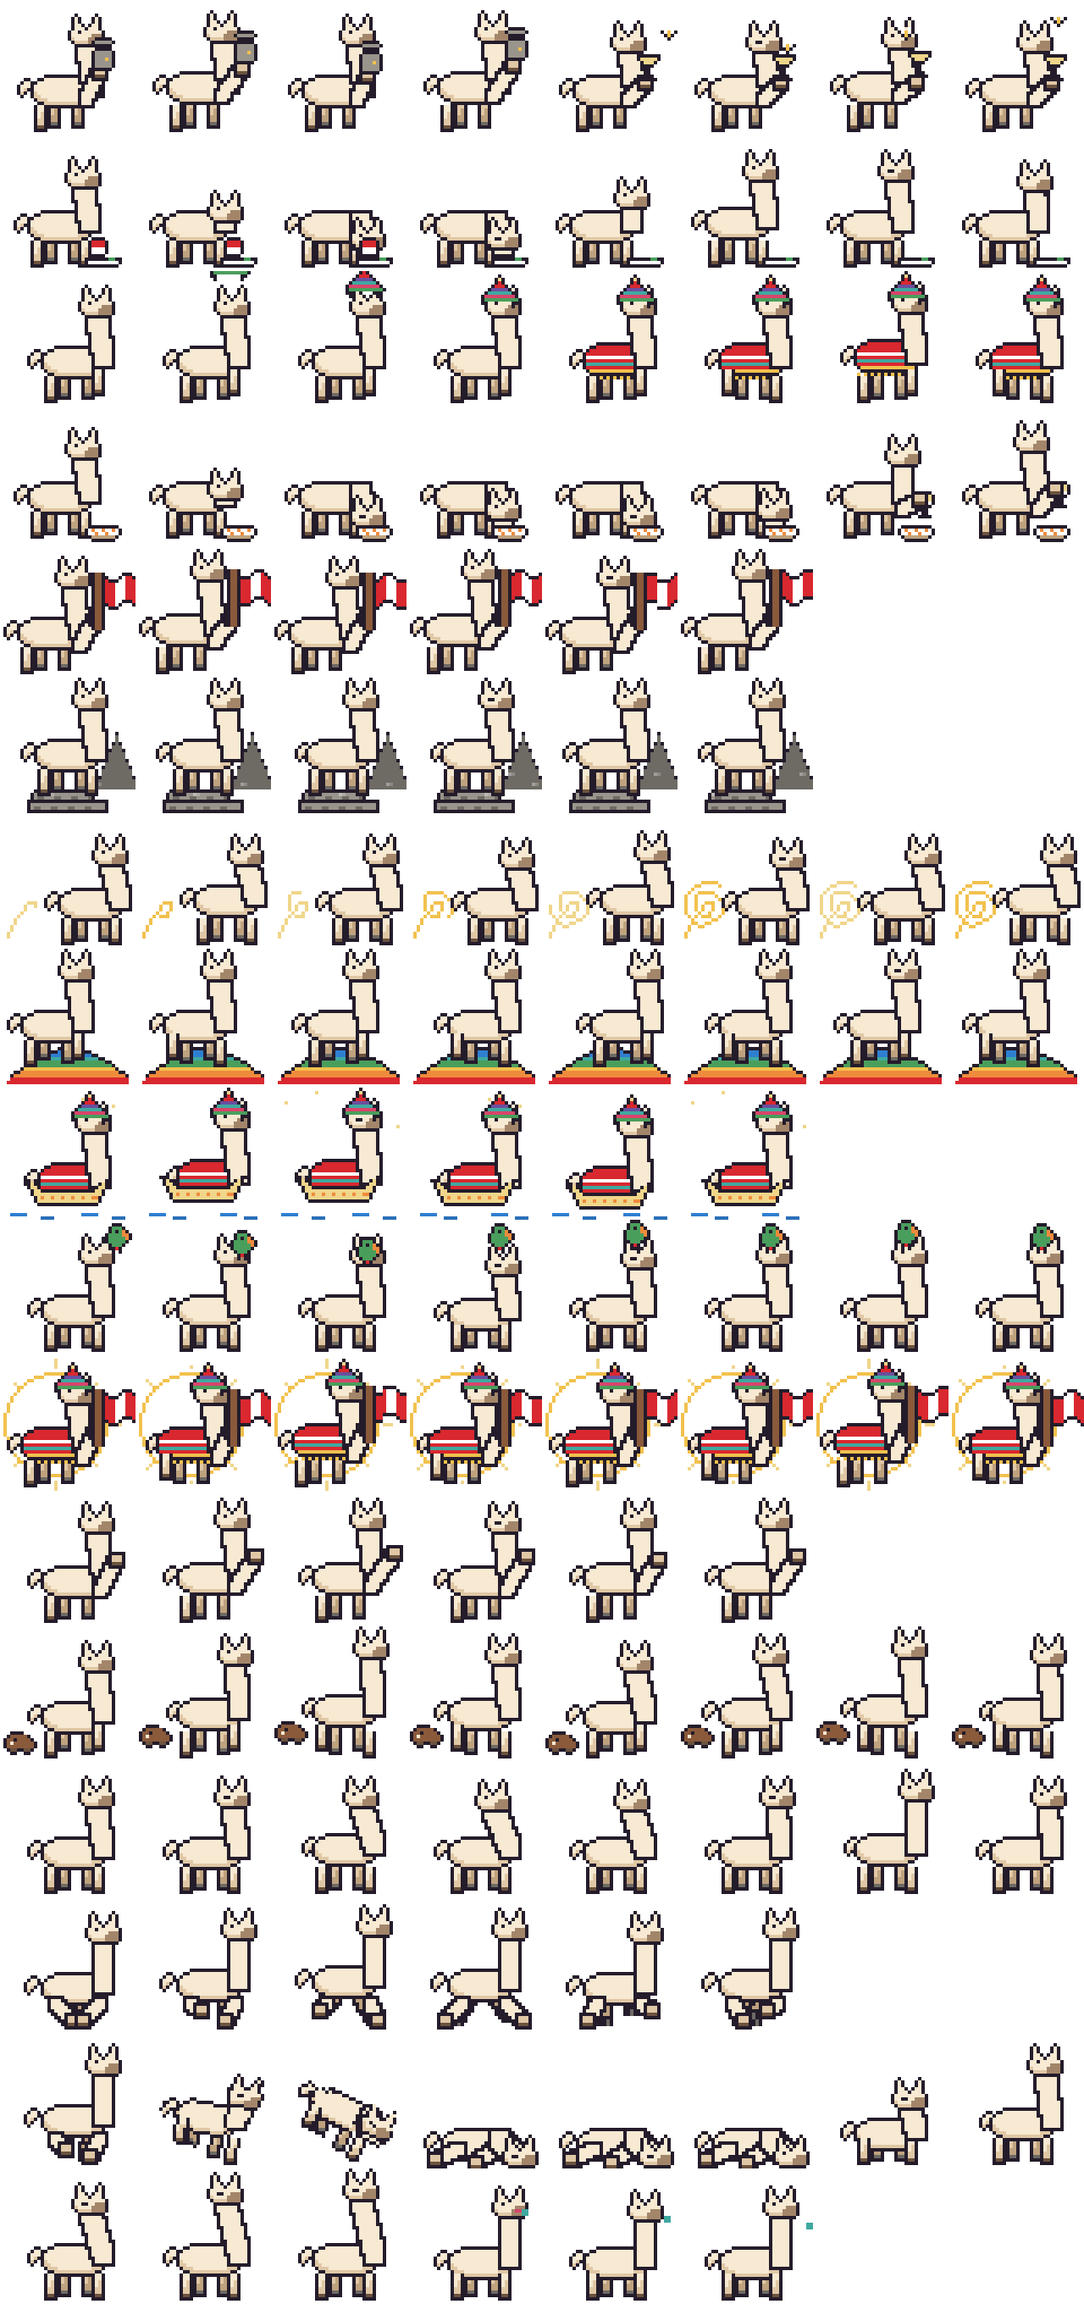
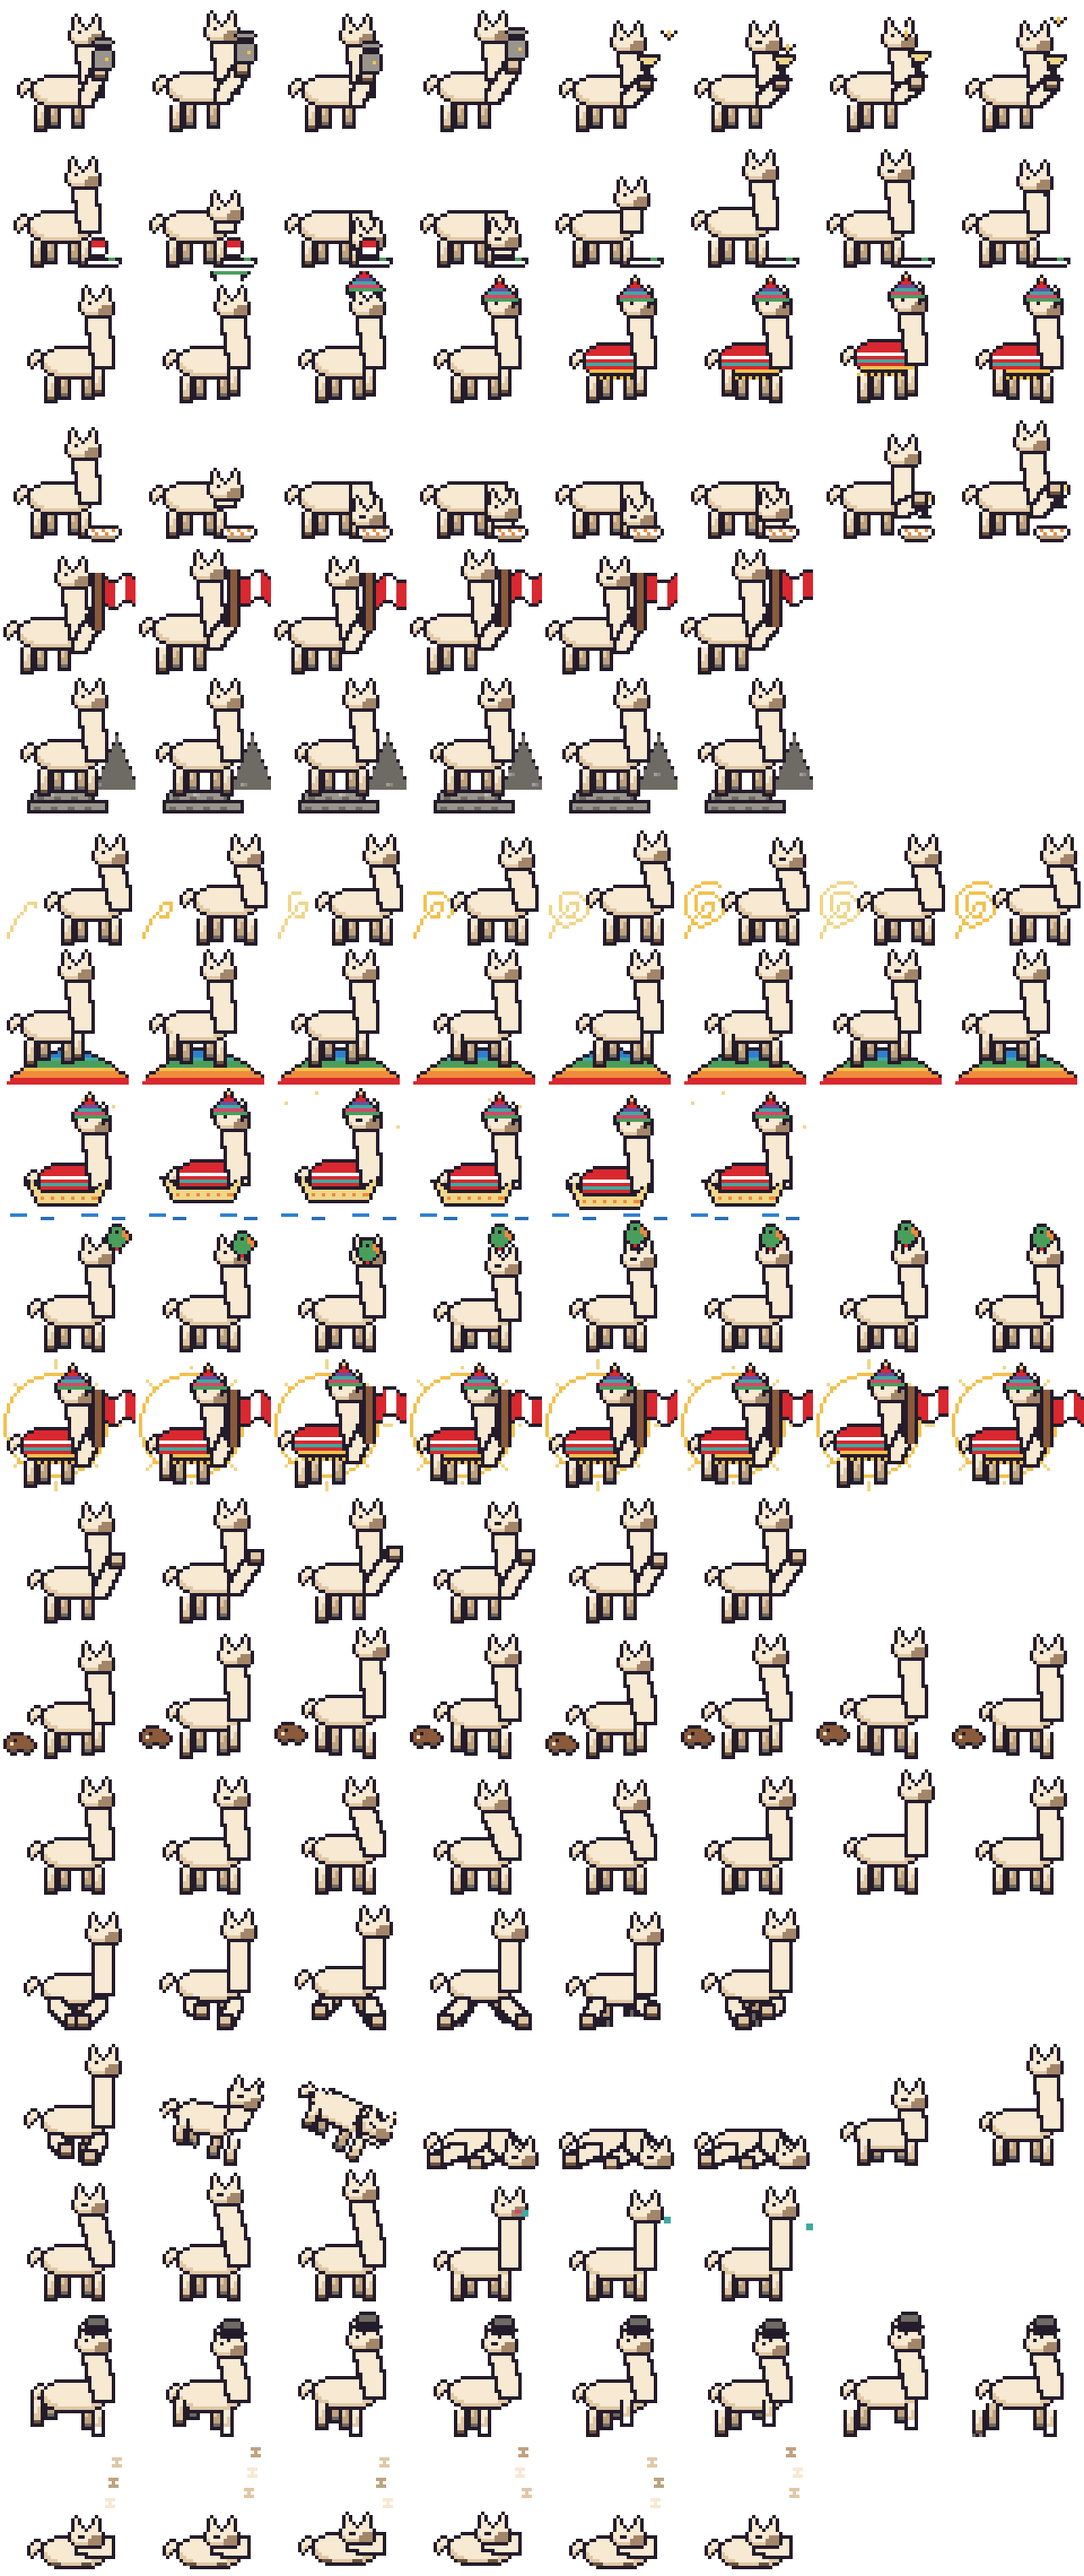
The llama moonwalks once in a blue moon, and sleeps when she's off
Two new strips. pack-llama.mjs now stacks the handoff's seventeen-row master
and the two loose strips into one nineteen-row sheet — still lossless WebP,
still 14 KB, and it decodes every row back out of the packed sheet and
compares it against its source before it will write anything.

The moonwalk is 6% of her decisions, roughly every seven minutes the page is
open, and it's the first branch in act() so the days she has a turn of her
own can't squeeze it out. It also inverts the facing rule: she's drawn facing
right with the dust trailing off to her left, so on that row alone the mirror
runs against the direction of travel. That's a `backwards` flag on the
animation, and llama.mjs asserts it in reverse of the gallop test.

Off no longer deletes her — she curls up in the left corner and sleeps. She
stops wandering, stops talking, and stops being a button, so she can't take a
tap meant for the guide. Under prefers-reduced-motion she's a single still
frame rather than slow-breathing.

Two things that fell out of it: every pending piece of behaviour now goes in
one Set so a state change cancels all of it — a stray stand() landing after
she'd gone to sleep would have stood her up asleep — and the animation loop
stops while the tab is hidden, since this page gets left open.

diff --git a/src/lib/llama.ts b/src/lib/llama.ts
@@ -8,12 +8,18 @@
  * chosen for the best fit, and the leftovers go where they jar least.
  */
 
-/** One row of the master sheet. Row order is the manifest's, not the day's. */
+/** One row of the packed sheet. Row order is the manifest's, not the day's. */
 export interface LlamaAnimation {
   id: string;
   row: number;
   frames: number;
   fps: number;
+  /**
+   * Drawn facing the opposite way to travel. Only the moonwalk: she faces
+   * right with the dust trailing off to her left, so she has to be mirrored
+   * against her direction rather than with it. That inversion is the joke.
+   */
+  backwards?: boolean;
 }
 
 export const LLAMA_SHEET = '/llama/chaska-4x.webp';
@@ -21,7 +27,7 @@ export const LLAMA_SHEET = '/llama/chaska-4x.webp';
 /** Logical frame is 40×40 exported at 4×; we draw at 2×, so an 80px cell. */
 export const LLAMA_CELL = 80;
 export const LLAMA_SHEET_COLUMNS = 8;
-export const LLAMA_SHEET_ROWS = 17;
+export const LLAMA_SHEET_ROWS = 19;
 
 export const LLAMA_ANIMATIONS: Record<string, LlamaAnimation> = {
   ladybee: { id: 'ladybee', row: 0, frames: 8, fps: 8 },
@@ -41,6 +47,9 @@ export const LLAMA_ANIMATIONS: Record<string, LlamaAnimation> = {
   run: { id: 'run', row: 14, frames: 6, fps: 12 },
   trip: { id: 'trip', row: 15, frames: 8, fps: 10 },
   tap: { id: 'tap', row: 16, frames: 6, fps: 10 },
+  // Appended to the sheet after the handoff, by scripts/pack-llama.mjs.
+  moonwalk: { id: 'moonwalk', row: 17, frames: 8, fps: 10, backwards: true },
+  sleep: { id: 'sleep', row: 18, frames: 6, fps: 3 },
 };
 
 /**

diff --git a/public/sw.js b/public/sw.js
@@ -11,7 +11,7 @@
  * Bump CACHE when the content changes — old caches are dropped on activate.
  */
 
-const CACHE = 'peru-guide-v15';
+const CACHE = 'peru-guide-v16';
 
 /**
  * Map tiles live in their own capped cache: they're third-party, there can be

diff --git a/README.md b/README.md
@@ -98,16 +98,23 @@ There is a llama at the bottom of the page. She has no job.
 
 She stands in the corner, and every fourteen-to-thirty-eight seconds does something: paces along the floor and turns at the edges, waves, catches a hoof and goes over, or dances. Poke her and she spits — an interrupt that plays over whatever she was doing and hands control back, so a second poke restarts it rather than queueing. On each of the eleven days of the trip she has a turn of her own and says so.
 
-The art is a handoff in `src/silly_virtual_llama/` — seventeen animations, 40 × 40 logical pixels each, exported at 4×. `src/lib/llama.ts` carries the sheet geometry and the day mapping; `Llama.astro` is the whole implementation.
+**Once in a blue moon she moonwalks.** 6% of her decisions, so roughly every seven minutes you have the page open. It's the first branch in `act()` so the days she has a turn of her own can't squeeze it out; the number is one line if it wants tuning.
+
+**Turning her off doesn't delete her — she curls up in the left corner and sleeps.** Zs and all. She stops wandering, stops talking, and stops being a button (`pointer-events: none`, and the label says she's asleep), so she can't take a tap meant for the guide. The handoff warns that a mascot frozen mid-stride reads as a bug; asleep reads as asleep.
+
+The art is a handoff in `src/silly_virtual_llama/` — seventeen animations at 40 × 40 logical pixels, exported at 4×, plus a moonwalk and a sleep that arrived afterwards as loose strips. `scripts/pack-llama.mjs` stacks the three sources into one nineteen-row sheet; `src/lib/llama.ts` carries the geometry and the day mapping; `Llama.astro` is the whole implementation.
 
 **The day mapping isn't the sheet's.** The sheet numbers its day animations 1–11, and taking them in order would put the Nazca lines on a Cusco rest day and a parrot on the flight home. Four land exactly — Lady Bee on the 16th, Maido on the 17th, the terraces on the 21st, the reed boat on the 24th — and the rest are matched to what we're actually doing, with reasons in the file.
 
-**What she costs:** 13 KB, once. The handoff's 174 KB PNG master re-encodes to lossless WebP at 13 KB with byte-identical pixels — `scripts/pack-llama.mjs` decodes both and compares the raw buffers before it will write. Nothing is resampled, recut or recoloured. The sheet is fetched on idle after `load`, so she never competes with the guide arriving, and she's precached for offline.
+**What she costs:** 14 KB, once. The handoff's 174 KB PNG master, plus the two later strips, re-encode to a single lossless WebP at 14 KB with byte-identical pixels — the pack script decodes every row back out of the packed sheet and compares it against its source before it will write anything. Nothing is resampled, recut or recoloured. The sheet is fetched on idle after `load`, so she never competes with the guide arriving, and she's precached for offline.
 
 **Behaviour worth knowing:**
 
 - Frames advance on accumulated milliseconds, not ticks, so she moves at the same speed on a 60 Hz laptop and a 120 Hz phone.
 - **The art faces right.** Head, muzzle and the spit all leave to the right, so it's walking *left* that takes the `scaleX(-1)` mirror. Shipping that backwards makes her moonwalk, which is exactly what happened the first time; `llama.mjs` now paces her with `Math.random` stubbed and fails if any step travels against her facing.
+- **The moonwalk inverts that**, and only the moonwalk: she's drawn facing right with the dust trailing off to her left, so on that row the mirror runs *against* the direction of travel. It's the `backwards` flag in `llama.ts`, and it has the same test in reverse.
+- Every pending piece of behaviour goes in one `Set` so a state change cancels all of it. A stray `stand()` landing after she's gone to sleep would stand her up asleep — the sort of thing a mascot gets away with for months.
+- The loop stops while the tab is hidden. This page gets left open.
 - Her floor is the `.shell` card, not the whole monitor. On a wide screen the card is centred with the ink field either side, and a llama straddling that edge reads as a mistake rather than a joke.
 - `pointer-events: none` on the container, `auto` on her 80 px hit box, `z-index: 900` — under the nav, over everything else, never in the way of a tap meant for the guide.
 - She's off in one click (the switch is in the menu, beside the lens filter) and remembers it. Under `prefers-reduced-motion` the default flips to off; an explicit choice always wins.
